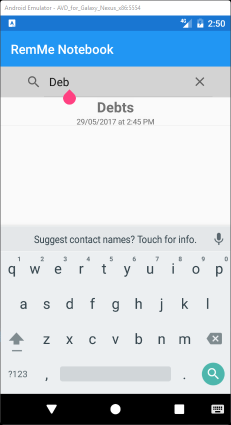
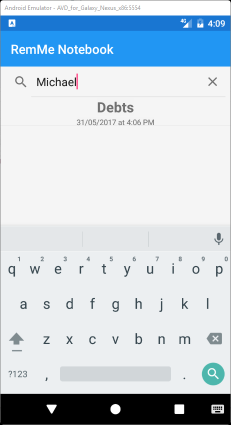
Small fixes and color changes. Added iOS screenshots.

diff --git a/RemMe/RemMe/Views/MainPage.xaml b/RemMe/RemMe/Views/MainPage.xaml
@@ -8,7 +8,7 @@
              Title="RemMe Notebook">
     
     <RelativeLayout>
-        <StackLayout x:Name="SearchBarHolder" HorizontalOptions="FillAndExpand" VerticalOptions="Start" Orientation="Horizontal" BackgroundColor="LightGray"
+        <StackLayout x:Name="SearchBarHolder" HorizontalOptions="FillAndExpand" VerticalOptions="Start" Orientation="Horizontal" BackgroundColor="WhiteSmoke"
                      RelativeLayout.HeightConstraint="{ConstraintExpression
                         Type=RelativeToParent,
                         Property=Height,
@@ -19,13 +19,17 @@
                         Property=Width,
                         Factor=1,
                         Constant=0}">
-            <SearchBar x:Name="SearchBar" Placeholder="Search..." HorizontalOptions="CenterAndExpand" 
+            <SearchBar x:Name="SearchBar" Placeholder="Search..." HorizontalOptions="FillAndExpand"
                        SearchCommand="{Binding SearchCommand}" 
                        SearchCommandParameter="{Binding Text, Source={x:Reference SearchBar}}"
-                       Text="{Binding SearchText, Mode=TwoWay}"/>
+                       Text="{Binding SearchText, Mode=TwoWay}"
+                       RelativeLayout.WidthConstraint ="{ConstraintExpression 
+                        Type=RelativeToParent, 
+                        Property=Width, 
+                        Factor=1}" />
         </StackLayout>
 
-        <ListView x:Name="listView" ItemsSource="{Binding RemFiles}" SelectedItem="{Binding SelectedRemFile, Mode=TwoWay}"
+        <ListView x:Name="listView" ItemsSource="{Binding RemFiles}" SelectedItem="{Binding SelectedRemFile, Mode=TwoWay}" BackgroundColor="WhiteSmoke"
                   RelativeLayout.WidthConstraint="{ConstraintExpression
                         Type=RelativeToParent,
                         ElementName=SearchBarHolder,
@@ -44,7 +48,7 @@
             <ListView.ItemTemplate>
                 <DataTemplate>
                     <ViewCell>
-                        <StackLayout HorizontalOptions="Center" VerticalOptions="Center" Orientation="Vertical" Spacing="0">
+                        <StackLayout HorizontalOptions="CenterAndExpand" VerticalOptions="Center" Orientation="Vertical" Spacing="1">
                             <Label Text="{Binding Title}" HorizontalOptions="Center" FontSize="Large" FontAttributes="Bold"/>
                             <Label Text="{Binding Date, StringFormat='{}{0:dd/MM/yyyy a\\t h:mm tt}'}" HorizontalOptions="Center" FontSize="12"/>
                         </StackLayout>
@@ -60,7 +64,7 @@
             </ListView.ItemTemplate>
         </ListView>
 
-        <Button BackgroundColor="LightGray" Text="+" Command="{Binding AddRemFileCommand}" RelativeLayout.YConstraint="{ConstraintExpression
+        <Button BackgroundColor="Gray" Text="+" Command="{Binding AddRemFileCommand}" RelativeLayout.YConstraint="{ConstraintExpression
                             Type=RelativeToParent,
                             Property=Height,
                             Factor=1,

diff --git a/RemMe/RemMe/Views/RemFileDetailPage.xaml b/RemMe/RemMe/Views/RemFileDetailPage.xaml
@@ -7,8 +7,8 @@
     </ContentPage.ToolbarItems>
     <StackLayout HorizontalOptions="FillAndExpand" VerticalOptions="FillAndExpand" Orientation="Vertical">
         <Label Text="Title" FontAttributes="Bold" FontSize="Large" HorizontalOptions="Center"/>
-        <Entry Text="{Binding Path=RemFile.Title}" HorizontalOptions="FillAndExpand" VerticalOptions="Start"/>
+        <Entry BackgroundColor="WhiteSmoke" Text="{Binding Path=RemFile.Title}" HorizontalOptions="FillAndExpand" VerticalOptions="Start"/>
         <Label Text="Description" FontAttributes="Bold" FontSize="Large" HorizontalOptions="Center"/>
-        <Editor Text="{Binding Path=RemFile.Description}" VerticalOptions="FillAndExpand" HorizontalOptions="FillAndExpand"/>
+        <Editor BackgroundColor="WhiteSmoke" Text="{Binding Path=RemFile.Description}" VerticalOptions="FillAndExpand" HorizontalOptions="FillAndExpand"/>
     </StackLayout>
 </ContentPage>

diff --git a/RemMe/RemMe/ViewModels/MainPageViewModel.cs b/RemMe/RemMe/ViewModels/MainPageViewModel.cs
@@ -145,10 +145,11 @@ namespace RemMe.ViewModels {
                 viewModel.Title = updatedRemFile.Title;
                 viewModel.Date = updatedRemFile.Date;
                 viewModel.Description = updatedRemFile.Description;
-                SelectedRemFile = null;
+                
             };
 
             await _pageService.PushAsync(new RemFileDetailPage(detailPageViewModel));
+            SelectedRemFile = null;
         }
 
         #endregion

diff --git a/README.md b/README.md
@@ -35,4 +35,6 @@ Android:
 
 iOS:
 
-Will upload screenshots form the iOS app when my MacBook is repaired...
+![](https://github.com/MPasadu/Xamarin_Notebook/blob/master/screenshots/IOS_MainPage_Vertical.png?raw=true) ![](https://github.com/MPasadu/Xamarin_Notebook/blob/master/screenshots/IOS_Delete_Vertical.png?raw=true) ![](https://github.com/MPasadu/Xamarin_Notebook/blob/master/screenshots/IOS_DetailPage_Vertical.png?raw=true)
+
+![](https://github.com/MPasadu/Xamarin_Notebook/blob/master/screenshots/IOS_Search_Horizontal.png?raw=true)
